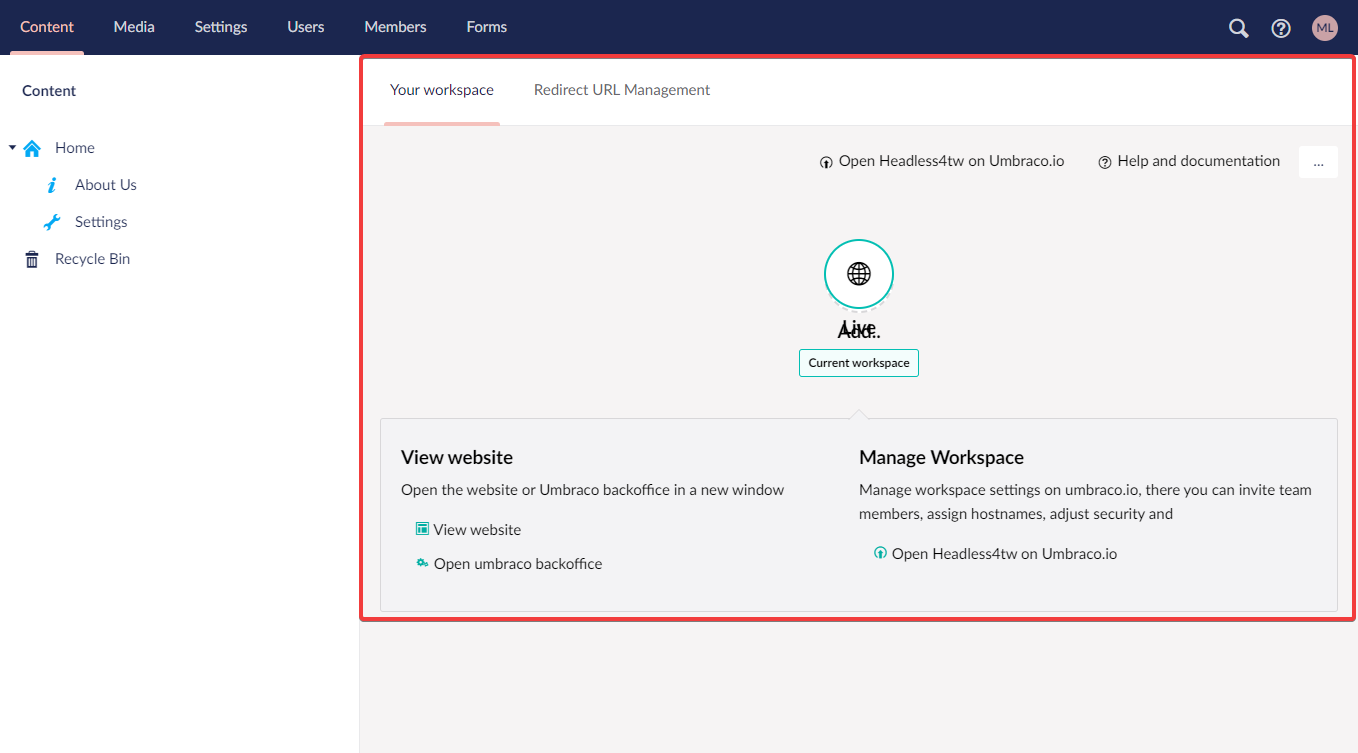
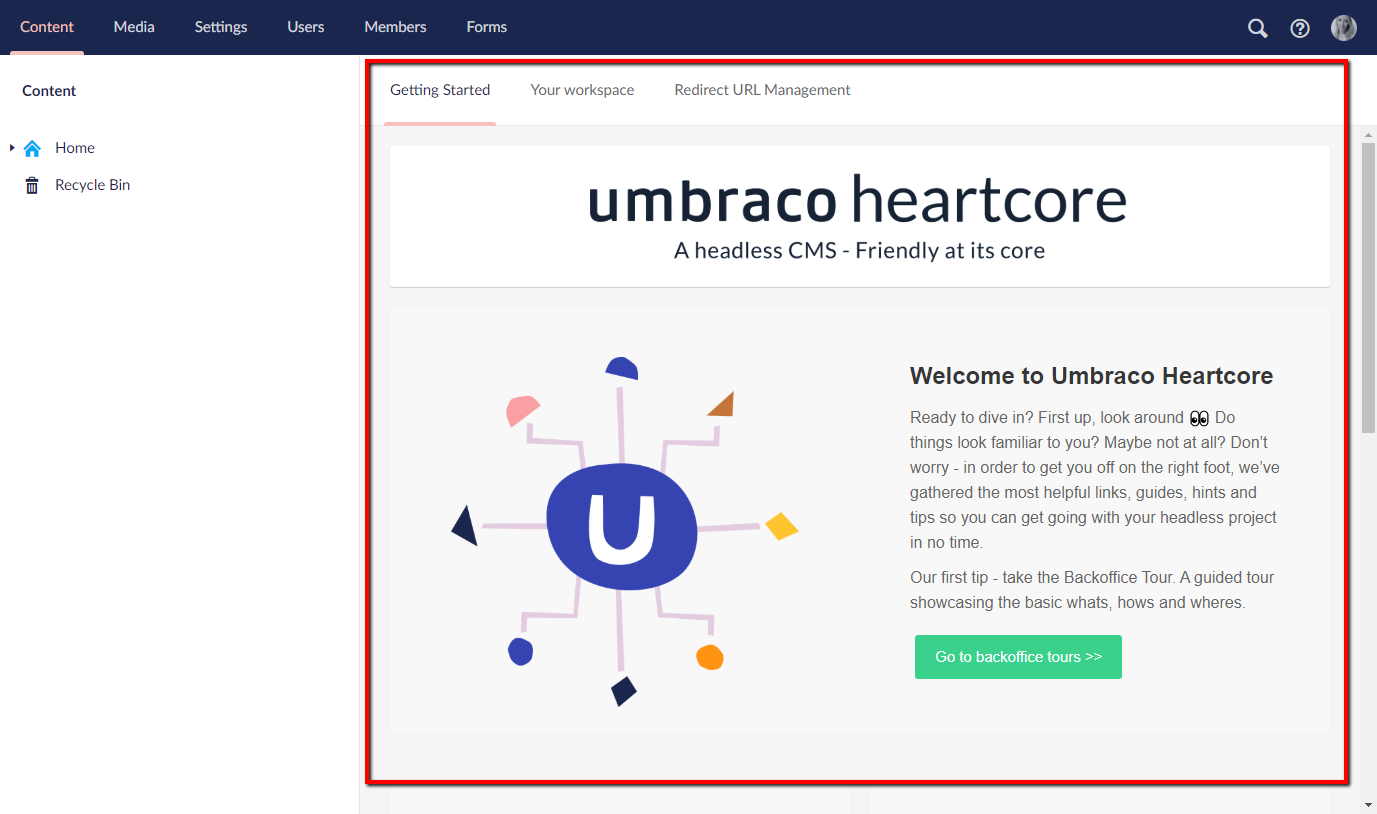
Updating some screen shots and correcting article on backoffice sections

diff --git a/Umbraco-Heartcore/Getting-Started-Cloud/The-Umbraco-Backoffice/index.md b/Umbraco-Heartcore/Getting-Started-Cloud/The-Umbraco-Backoffice/index.md
@@ -38,15 +38,7 @@ Every item you have is considered a node. It could be a media item or content in
 
 ## Dashboard
 
-Every section in the Umbraco backoffice has a default dashboard associated with them. The first thing you will see when accessing the backoffice on your Umbraco Heartcore project is the "Welcome" dashboard, where you can find links to news and resources useful to your project. 
-
-The first dashboard you will meet is the "Workspace" in the Content section. Here you can see what environment you are currently working on and you can find links to various different resources.
-
-![Dashboard section](images/dashboard.png)
-
-Should you have set URL redirects you can manage them via the Redirect URL Management tap.
-
-![URL Dashboard](images/dashboard-url.png)
+Every section in the Umbraco backoffice has one or more dashboard associated with them. The first thing you will see when accessing the backoffice on your Umbraco Heartcore project is the "Getting Started" dashboard, where you can find links to news and resources useful to your project. 
 
 ## Content
 
@@ -80,7 +72,7 @@ In the settings section you find the before mentioned Document Types, Data Types
 
 ### Document type
 
-Document types helps define the content nodes in the content tree that the user can create. A document type has different properties that in turn is made up by a specific Data Type like text or a number. A property is the fields that holds the content in a content node that can be edited by the content editor.
+Document Types defines the content nodes the editors can create in the Content section. A Document Type has a set of properties that is made up of specific Data Types like text or a numbers. A property is the fields that holds the content in a content node that can be edited by the content editor.
 
 ### Media Types
 
@@ -88,44 +80,50 @@ What differs from Document Types is that Media Types are specifically made for m
 
 ### Member Types
 
-When you have a website with a login you can create member types. Umbraco comes with a standard Member Type but you can also create your own type for a more personalized member.
+When you have a website with a login you might want to create Member Types. Umbraco comes with a standard Member Type. You can extend of this, but you can also create your own type for more costumized members.
 
 ### Data Type
 
-Each Document Type property consists of a Data Type which defines what kind of input the property holds. Each Data Type references a Property Editor which is configured in the Settings section of the Backoffice. A Property Editor can be anything from a basic number to something more complex like an image-cropper. It is possible to have multiple Data Types with different settings that still uses the same Textarea Property Editor.
+Each Document Type property consists of a Data Type which defines what kind of input the property holds. Each Data Type references a Property Editor and can be configured in the Settings section of the Backoffice. A Property Editor can be anything from a basic number to something more complex like an image-cropper. It is possible to have multiple Data Types with different settings that still uses the same Property Editor.
 
 ### Relation Types
 
-In this section you are able to create two way relationships and query the parent for the children and the children for the parent.
+In this section you are able to create two way relationships in order to be able to query the parent for the children and the children for the parent.
 
 ### Log Viewer
 
-The log viewer is a view where you can go through all your logs. You are able to filter on warnings, errors or critical Log Types to name a few.
+The log viewer is a view where you can browse all log entries for your project. You can filter on warnings, errors or critical Log Types to name a few.
 
 ### Languages
 
-Here you will be able to manage your language variants. Depending on what plan you have chosen you will be able to have more that one language.
+In the Languages section you can manage your language variants. Depending on what plan you have chosen you will be able to setup multiple languages on your Heartcore project.
 
 ### Headless
 
-The Headless tree in the Settings section is unique as it is only featured in Umbraco Heartcore. From here you will be able to manage the APIs as well as create and manage your Webhooks.
+From the Headless tree you can browse and explore the REST API endpoints as well as create and manage your Webhooks.
 
--   API Browser: In the API Browser you are able to test your API endpoints. You can read more in the [API Browser article](../Webhooks).
+-   API Browser: In the API Browser you can test your API endpoints. Learn more about this in the [API Browser article](../Webhooks).
 
--   Webhooks: You are also able to create and manage your Webhooks in the settings. You can read more in the [Webhooks article](../API-Browser).
+-   Webhooks: You can create and manage Webhooks for various content actions. Learn more about how this is setup in the [Webhooks article](../API-Browser).
 
 ## Users
 
-IN this section you can manage all the users that are currently working on the project. Users are not to be confused with Members as members are people who has a login to your websites front-end whereas Users can be developers, content creators etc that is working on your project from the backoffice.
+In this section you can manage all the users that are currently working on the project. Users are not to be confused with Members as members are people who has a login to your websites frontend whereas Users can be developers, content creators etc that has access to the backoffice.
 
-You are also able to segment your user into different User Groups. You can add Users to existing Groups or create your own custom Member Groups.
+You can segment your users into different User Groups. You can add Users to existing Groups or create your own custom User Groups. How many of these groups you can create depends on the plan your project is on.
 
-As a special section for the Umbraco Heartcore backoffice is the ability to create, manage and revoke API Keys for the Users working on the project.
+For each user on your project you can generate a unique API key. This key will be used to access the Content Management API, and can be revoked at any time. Learn more about the API Keys in the [Backoffice users and API keys article](../Backoffice-Users-and-API-Keys).
 
 ## Members
 
-The Members section is where you manage your members who are able to log into your projects front-end. You can create Member Groups for easy management if you have multiply types of memberships etc.
+The Members section is where you manage your members who are able to log into your projects frontend. You can create Member Groups for easy management if you have multiple types of memberships.
 
 ## Forms
 
-In this section you are able to create and manage your Umbraco Forms. You are able to extract the data that has been stored in the Forms as well. You will have to buy a licnese for Umbraco Forms to be able to work with it on Cloud. You are able to install Umbraco Forms locally to test it out as well.
+:::note
+While you can create and manage forms in the backoffice, there is currently no API endpoints enabling you to use the forms on your frontend.
+
+These will be added at a later point. [Keep an eye on our Roadmap for more details](https://umbraco.com/products/roadmap/).
+:::
+
+In this section you can create and manage your Umbraco Forms.
